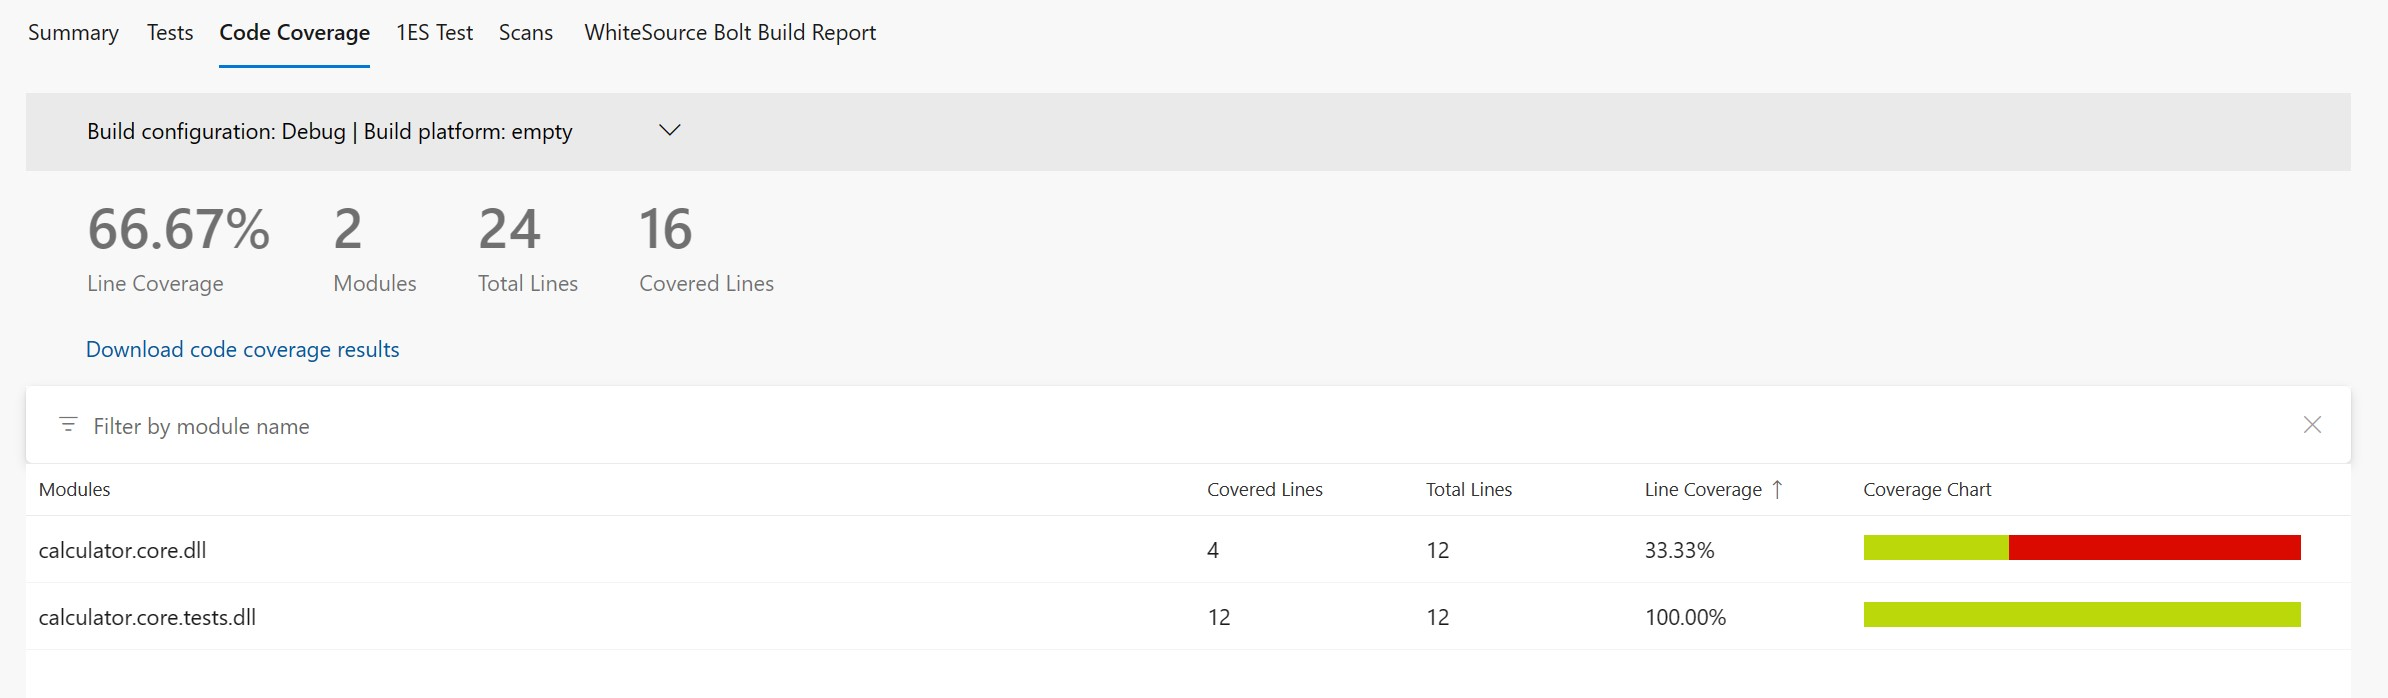
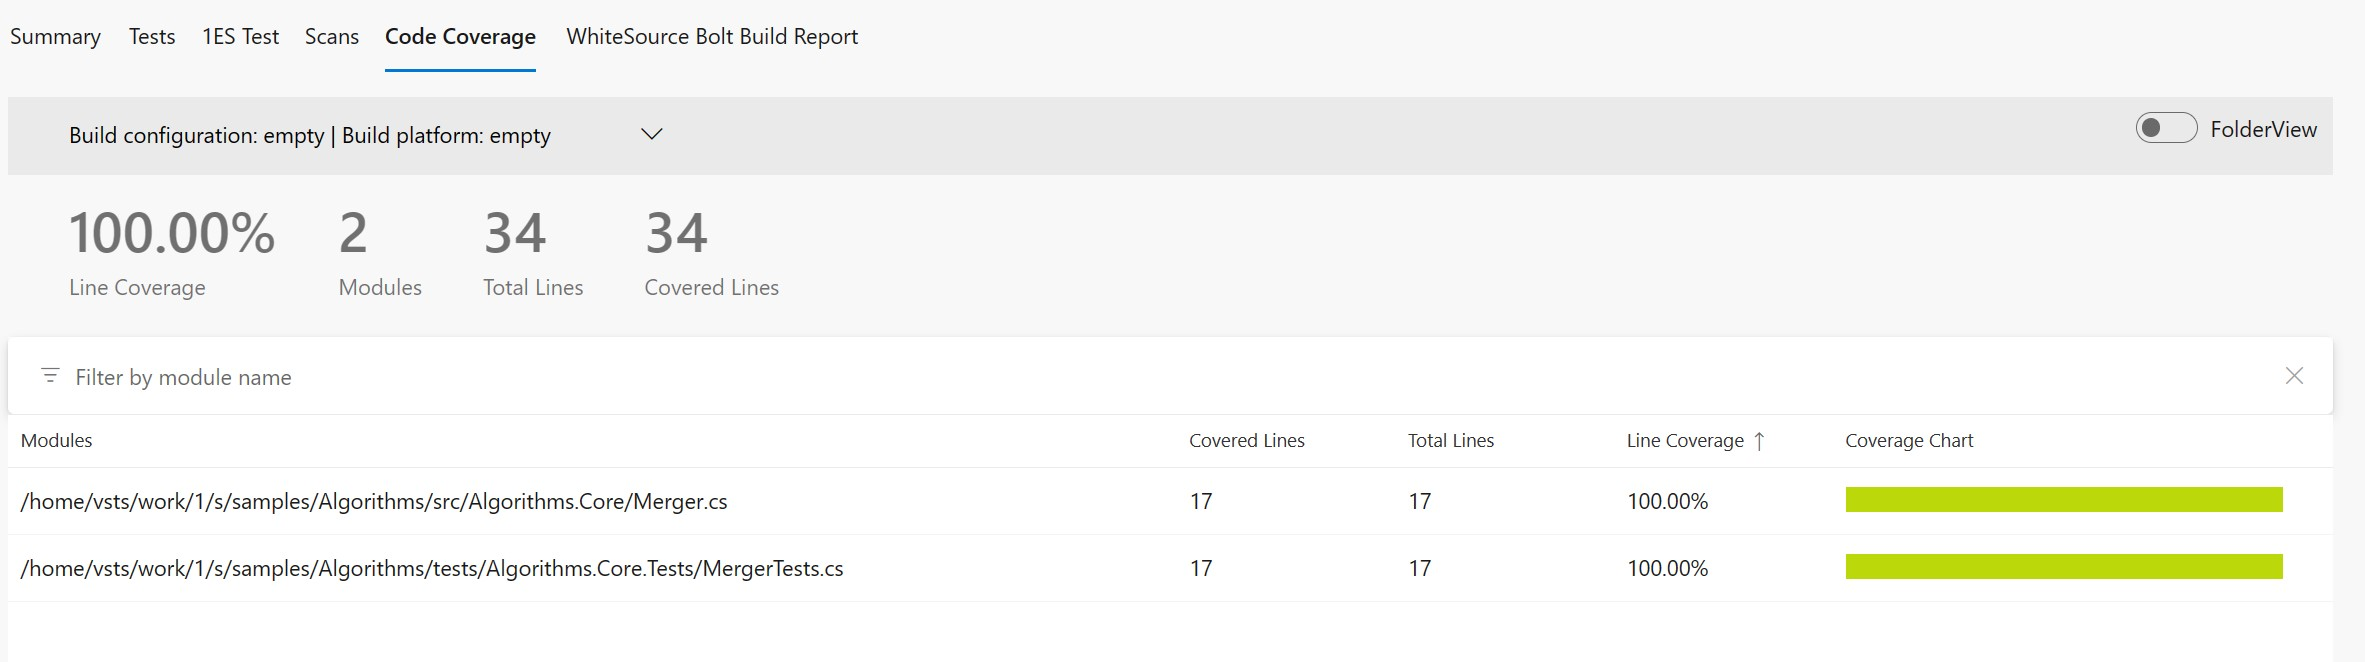
More

diff --git a/samples/Algorithms/scenarios/scenario01/README.md b/samples/Algorithms/scenarios/scenario01/README.md
@@ -1,20 +1,20 @@
 # Scenario Description
 
-Collect code coverage using default settings. Default format is binary (`.coverage` extension) which can be opened in Visual Studio Enterprise.
+Collect code coverage using dynamic instrumentation for MSTest runner project.
 
 # Collect code coverage using command line
 
 ```shell
 git clone https://github.com/microsoft/codecoverage.git
-cd codecoverage/samples/Calculator/tests/Calculator.Core.Tests/
-dotnet test --collect "Code Coverage"
+cd codecoverage/samples/Algorithms/tests/Algorithms.Core.Tests/
+dotnet run --ms-coverage --ms-coverage-output report.cobertura.xml --ms-coverage-output-format cobertura
 ```
 
 You can also use [run.ps1](run.ps1) to collect code coverage.
 
 # Collect code coverage inside github workflow
 
-To generate summary report `.coverage` report needs to be converted to `cobertura` report using `dotnet-coverage` tool. Then `reportgenerator` can be used to generate final github summary markdown.
+`reportgenerator` can be used to generate final github summary markdown.
 
 ```yml
     steps:
@@ -22,17 +22,13 @@ To generate summary report `.coverage` report needs to be converted to `cobertur
     - name: Setup .NET
       uses: actions/setup-dotnet@v3
       with:
-        dotnet-version: 7.0.x
+        dotnet-version: 8.0.x
     - name: Restore dependencies
       run: dotnet restore
     - name: Build
       run: dotnet build --no-restore
     - name: Test
-      run: dotnet test --collect "Code Coverage" --no-build --verbosity normal
-    - name: Install dotnet-coverage
-      run: dotnet tool install -g dotnet-coverage
-    - name: Convert .coverage report to cobertura
-      run: dotnet-coverage merge $GITHUB_WORKSPACE/samples/Calculator/tests/Calculator.Core.Tests/TestResults/**/*.coverage -f cobertura -o $GITHUB_WORKSPACE/report.cobertura.xml
+      run: dotnet run --no-build --ms-coverage --ms-coverage-output $GITHUB_WORKSPACE/report.cobertura.xml --ms-coverage-output-format cobertura
     - name: ReportGenerator
       uses: danielpalme/ReportGenerator-GitHub-Action@5.2.0
       with:
@@ -45,12 +41,12 @@ To generate summary report `.coverage` report needs to be converted to `cobertur
       uses: actions/upload-artifact@v3
       with:
         name: code-coverage-report
-        path: ./**/TestResults/**/*.coverage
+        path: ${{ github.workspace }}/report.cobertura.xml
 ```
 
-[Full source example](../../../../.github/workflows/Calculator_Scenario01.yml)
+[Full source example](../../../../.github/workflows/Algorithms_Scenario01.yml)
 
-[Run example](../../../../../../actions/workflows/Calculator_Scenario01.yml)
+[Run example](../../../../../../actions/workflows/Algorithms_Scenario01.yml)
 
 # Collect code coverage inside Azure DevOps Pipelines
 
@@ -60,24 +56,32 @@ steps:
   inputs:
     command: 'restore'
     projects: '$(projectPath)' # this is specific to example - in most cases not needed
-  displayName: 'dotnet restore'
+  displayName: 'restore'
 
 - task: DotNetCoreCLI@2
   inputs:
     command: 'build'
     arguments: '--no-restore --configuration $(buildConfiguration)'
     projects: '$(projectPath)' # this is specific to example - in most cases not needed
-  displayName: 'dotnet build'
+  displayName: 'build'
 
 - task: DotNetCoreCLI@2
   inputs:
-    command: 'test'
-    arguments: '--no-build --configuration $(buildConfiguration) --collect "Code Coverage"'
+    command: 'run'
+    arguments: '--no-build --configuration $(buildConfiguration) --results-directory $(Agent.TempDirectory) --ms-coverage --ms-coverage-output $(Agent.TempDirectory)/report.cobertura.xml --ms-coverage-output-format cobertura --report-trx'
     projects: '$(projectPath)' # this is specific to example - in most cases not needed
-  displayName: 'dotnet test'
-```
+  displayName: 'test'
 
-> **_NOTE:_** Azure DevOps pipelines automatically recognize binary coverage report format. Code coverage results are automatically processed and published to Azure DevOps. No additional steps needed.
+- task: PublishTestResults@2
+  inputs:
+    testResultsFormat: 'VSTest'
+    testResultsFiles: '$(Agent.TempDirectory)/**/*.trx'
+    publishRunAttachments: false
+
+- task: PublishCodeCoverageResults@2
+  inputs:
+    summaryFileLocation: $(Agent.TempDirectory)/**/*.cobertura.xml
+```
 
 [Full source example](azure-pipelines.yml)
 
@@ -87,4 +91,4 @@ steps:
 
 ![alt text](example.report.jpg "Example report")
 
-[Link](example.report.coverage)
+[Link](example.report.cobertura.xml)
